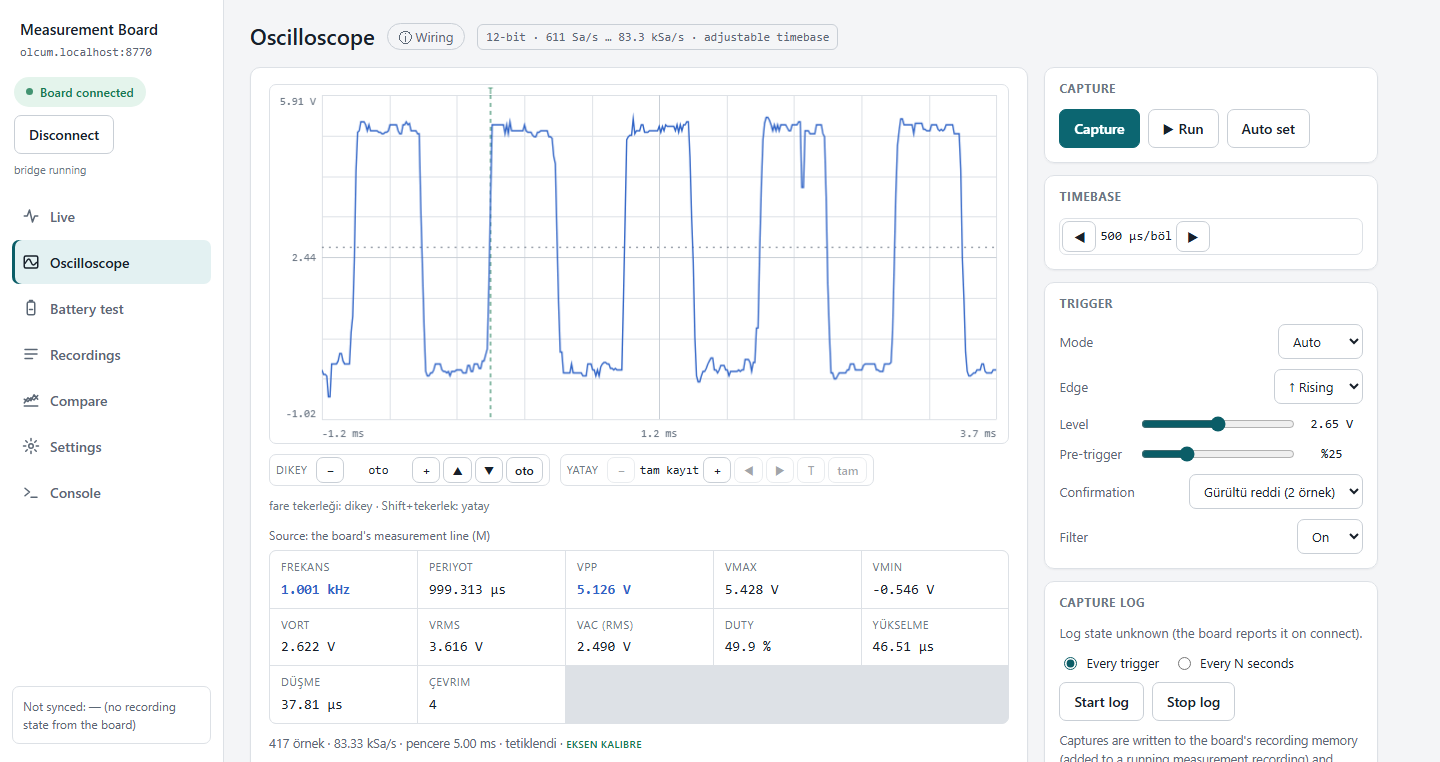
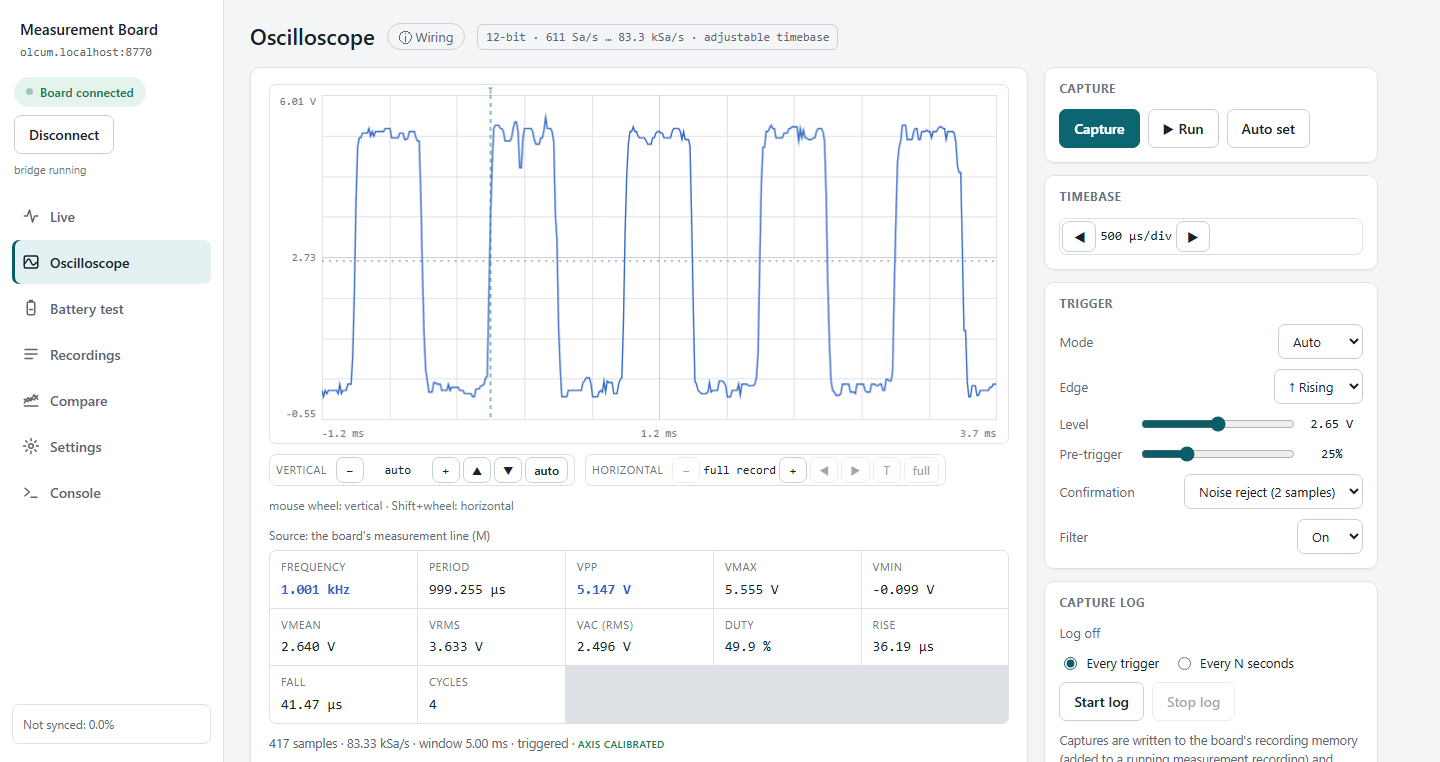
Ingilizce goruntuler ceviri sonrasi yenilendi: pc-skop, pc-canli, tel-canli, tel-pil (Turkce etiket yok)
Canli goruntulerde yuk cikar-tak basamaklari gorunuyor; osiloskop sinyali Arduino D9.
DEVIR 5.12.120'ye ceviri sonrasi durum, GEREKENLER.md guncel.

diff --git a/uretim/readme_gorsel/cek_en_pc.js b/uretim/readme_gorsel/cek_en_pc.js
@@ -25,7 +25,7 @@ const ISLER = {
     await bekle(9000);
     for (let i = 0; i < 6; i++) {
       const m = await p.evaluate(() => {
-        const e = [...document.querySelectorAll('main *')].find((x) => x.children.length === 0 && /[µm]s\/böl/.test(x.textContent));
+        const e = [...document.querySelectorAll('main *')].find((x) => x.children.length === 0 && /[µm]s\s*\/\s*(böl|div)/.test(x.textContent));
         let k = e; while (k && k.querySelectorAll('button').length < 2) k = k.parentElement;
         const metin = e.textContent.trim();
         if (/500\s*µs/.test(metin)) return metin;
@@ -40,7 +40,7 @@ const ISLER = {
     await p.getByRole('button', { name: 'Capture', exact: true }).click();
     await bekle(7000);
     await blur(p);
-    console.log('  skop olcum:', (await p.locator('body').innerText()).replace(/\s+/g, ' ').match(/FREKANS.{0,230}/i)?.[0]);
+    console.log('  skop olcum:', (await p.locator('body').innerText()).replace(/\s+/g, ' ').match(/(FREKANS|FREQUENCY).{0,230}/i)?.[0]);
     await p.screenshot({ path: path.join(CIKIS, 'pc-skop.png') });
   },
   async kayit(t) {

diff --git a/DEVIR.md b/DEVIR.md
@@ -10644,8 +10644,12 @@ tam koşuda doğrulanmalı.
 - **İngilizce README görüntüleri** `gorsel/readme/en/` (12/12, gerçek karttan): rehberler `cek_en_belge.js`, PC
   `cek_en_pc.js` (köprü, `olcum.dil = en`; izleyici kalırsa "Sürücülüğü devral"), telefon Honor'dan adb + `uiautomator dump`
   ile (WebView hata ayıklaması kapalıyken de metin ve konum veriyor; canlı ekranda döküm boş dönebiliyor).
-- **Açık:** İngilizce panelde çevrilmemiş etiketler görüntülerde Türkçe (osiloskop ölçüm tablosu, DİKEY/YATAY, "Geçen
-  süre", "Örnekleme", pil ekranındaki J7 uyarısı) — AY3 kilidindeki 272 metnin parçası. Çekirdek 1'e eklenen süre ölçülmedi.
+- **Çeviri sonrası (5.12.121, aynı gün):** `ceviri-en` yerelde alındı, tam zincir yeşil (kilit 5734 iddia), panel karta
+  yazıldı, APK yeniden derlenip Honor'a güncelleme olarak kuruldu (eşleştirme korundu). İngilizce kipte sekiz ekranın ilk
+  karelerinde ve oturmuş hâlinde Türkçe harfli metin yok (yalnız kullanıcının verdiği kayıt adları). `pc-skop`, `pc-canli`,
+  `tel-canli`, `tel-pil` yeniden çekildi. ⚠ Honor'da uygulama kart yeniden başlayınca ya da dil değişince "Board off /
+  unreachable"da kalabiliyor; uygulamayı kapatıp açınca ~30 s'de bağlanıyor (aranmadı). Telefona özgü "Kart bulunamadı —
+  aranıyor…" şeridi İngilizce kipte Türkçe. Çekirdek 1'e eklenen süre ölçülmedi.
 
 #### 5.12.121 🟡 CE: İNGİLİZCE PANELDE TÜRKÇE KALAN METİNLER — ÖNCELİK 1 (README EKRANLARI) (2026-10-11, bulut oturumu, dal `ceviri-en`)
 

diff --git a/gorsel/readme/en/GEREKENLER.md b/gorsel/readme/en/GEREKENLER.md
@@ -7,11 +7,11 @@ Turkish ones in `gorsel/readme/`, captured with the panel, the PC app and the gu
 Türkçe görüntülerle (`gorsel/readme/*.png`) **birebir aynı**; her biri Türkçesinin İngilizce karşılığı olmalı:
 aynı ekran, aynı ölçüm, aynı kırpma ve boyut — yalnız arayüz dili İngilizce.
 
-✅ **12 görüntünün hepsi 2026-10-11'de gerçek karttan çekildi** (firmware A3-SK2). PC ve rehber görüntüleri
-`uretim/readme_gorsel/cek_en_pc.js` ve `cek_en_belge.js` ile; telefon görüntüleri Honor'dan `adb` ile (Türkçeleri
-Xiaomi'dendi: başlık iki satıra kırılıyor, boyut aynı). Canlı ekranlarda ölçüm 18650 + 3.3 Ω (~3.77 V · 1.10 A ·
-4.14 W); Türkçesindeki yük çıkar-tak adımı İngilizce grafikte yok. İngilizce panelde henüz çevrilmemiş etiketler
-(osiloskop ölçüm tablosu, "Geçen süre", "Örnekleme" …) görüntülerde Türkçe duruyor — çevrilince yeniden çekilmeli.
+✅ **12 görüntünün hepsi gerçek karttan çekildi** (2026-10-11, firmware A3-SK2, panel çevirisi tamamlandıktan sonra).
+PC ve rehber görüntüleri `uretim/readme_gorsel/cek_en_pc.js` ve `cek_en_belge.js` ile; telefon görüntüleri Honor'dan
+`adb` ile (Türkçeleri Xiaomi'dendi: başlık iki satıra kırılıyor, boyut aynı). Canlı ekranlarda ölçüm 18650 + 3.3 Ω
+(~3.82 V · 1.11 A · 4.23 W), grafikte yükün takılıp çıkarılması görünüyor. Osiloskopta sinyal Arduino Uno **D9**
+(D13'te alt seviye kayıyor — `tasarim/1-acik-isler.md` SK-8).
 
 ## Neden yalnız PNG'ler?
 
